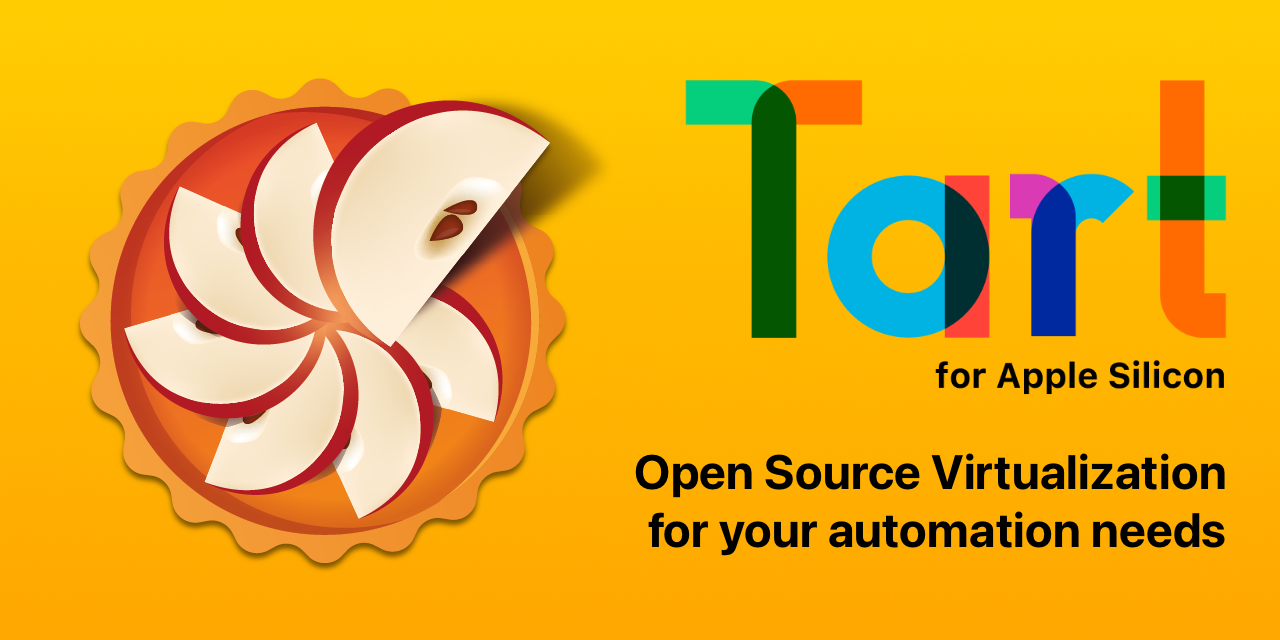
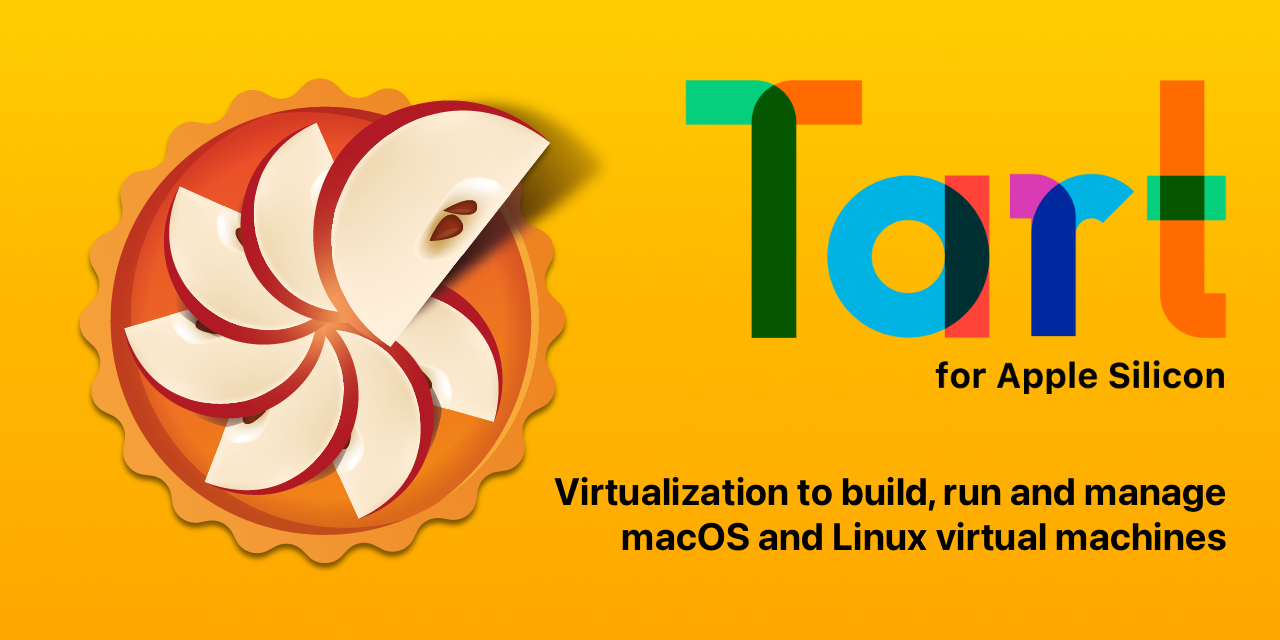
Updated data
Update Geekbench results with Mac Mini 2023 with M2 Pro chip.

Updated the social card to rephrase "Open Source Virtualization for your automation needs" to "Virtualization to build, run and manage macOS and Linux virtual machines".

Changed region(s): [[0.4375, 0.6875, 0.9688, 0.875]]

diff --git a/README.md b/README.md
@@ -3,7 +3,7 @@
 *Tart* is a virtualization toolset to build, run and manage macOS and Linux virtual machines (VMs) on Apple Silicon.
 Built by CI engineers for your automation needs. Here are some highlights of Tart:
 
-* Tart uses Apple's own `Virtualization.Framework` for [near-native performance](https://browser.geekbench.com/v5/cpu/compare/14966395?baseline=14966339).
+* Tart uses Apple's own `Virtualization.Framework` for [near-native performance](https://browser.geekbench.com/v5/cpu/compare/20382844?baseline=20382722).
 * Push/Pull virtual machines from any OCI-compatible container registry.
 * Use Tart Packer Plugin to automate VM creation.
 * Built-in CI integration.
